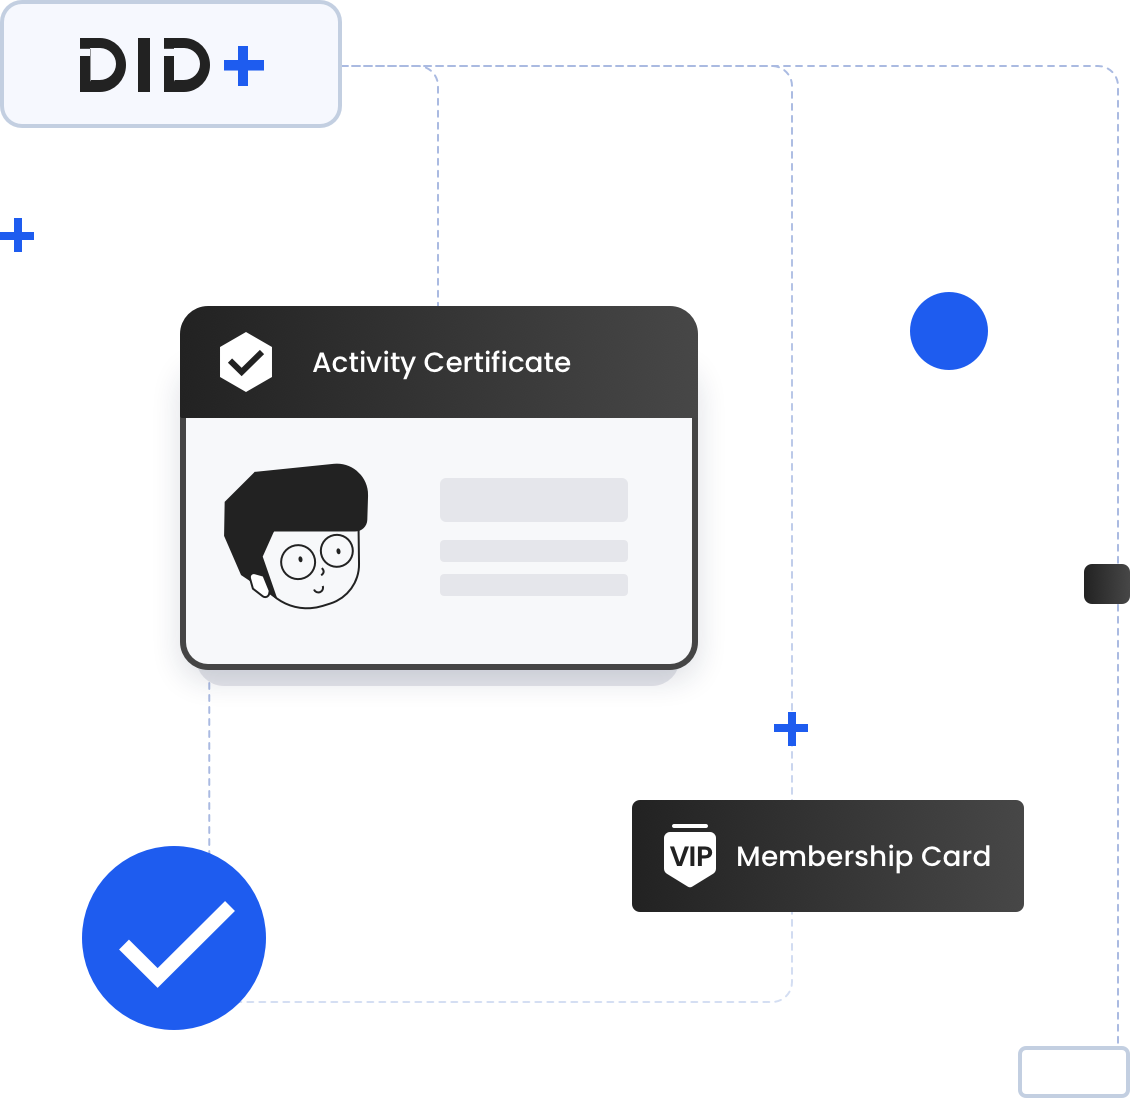
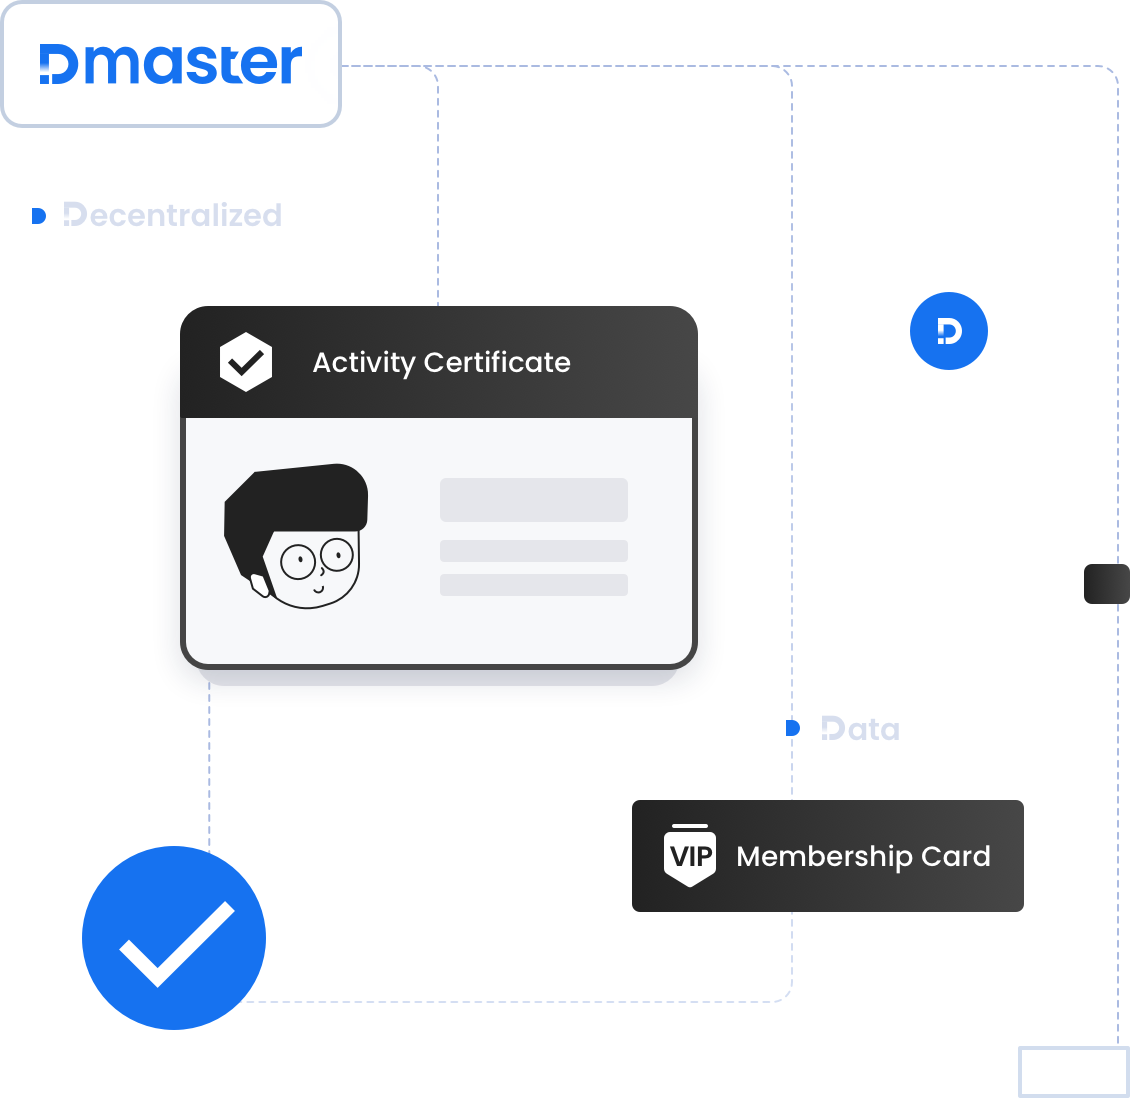
change some image to dmaster

diff --git a/src/router/domain.js b/src/router/domain.js
@@ -2,5 +2,5 @@ export default {
     // domainUrl: "http://172.25.120.21:15091"
     // domainUrl: "http://172.25.90.41:15091"
     // domainUrl: "https://dpass-local.valuechain.group"
-    domainUrl: "https://did.valuechain.group"
+    domainUrl: "https://dmaster.com"
 }

diff --git a/src/views/Login.vue b/src/views/Login.vue
@@ -7,7 +7,7 @@
         alt=""
         srcset=""
       />
-      <h3 id="welcome-title">Welcome to DID+</h3>
+      <h3 id="welcome-title">Welcome to Dmaster</h3>
       <br />
 
       <h4 id="email-title">Email</h4>
